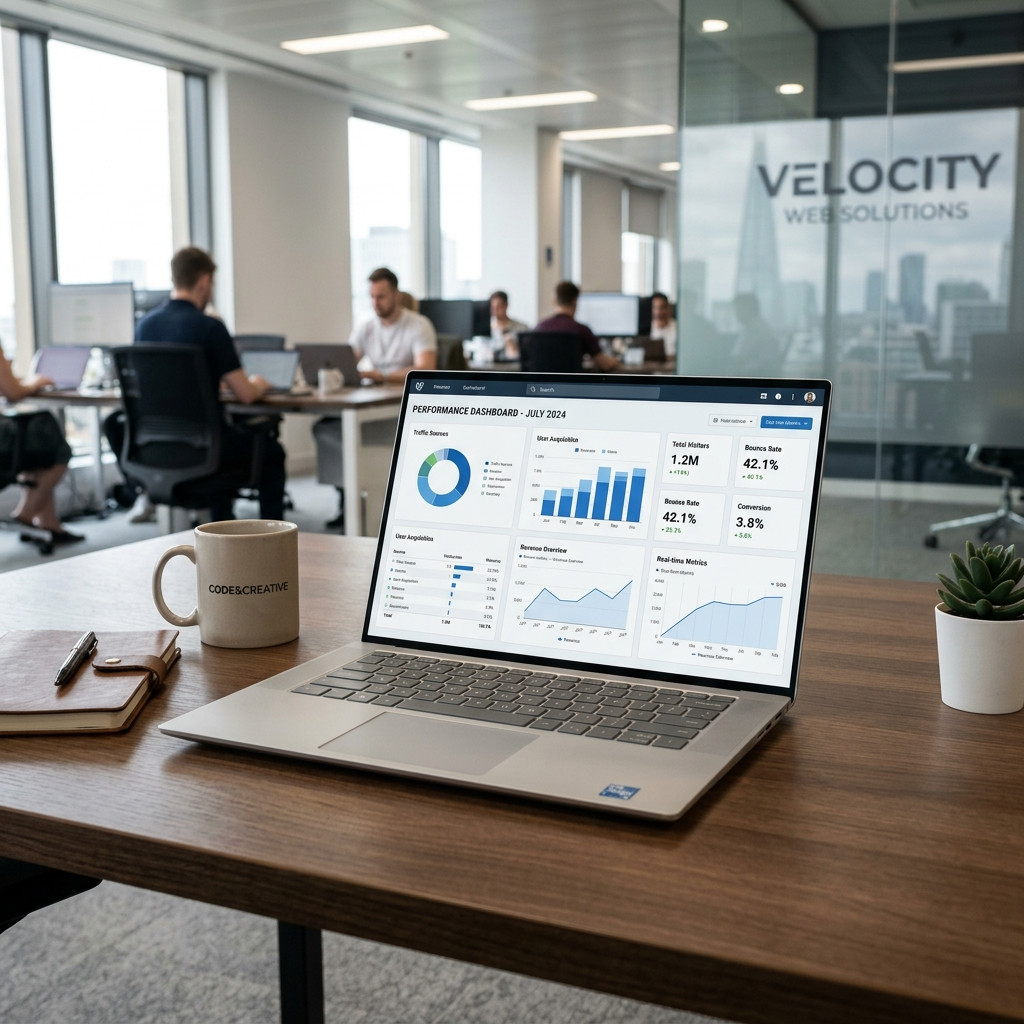
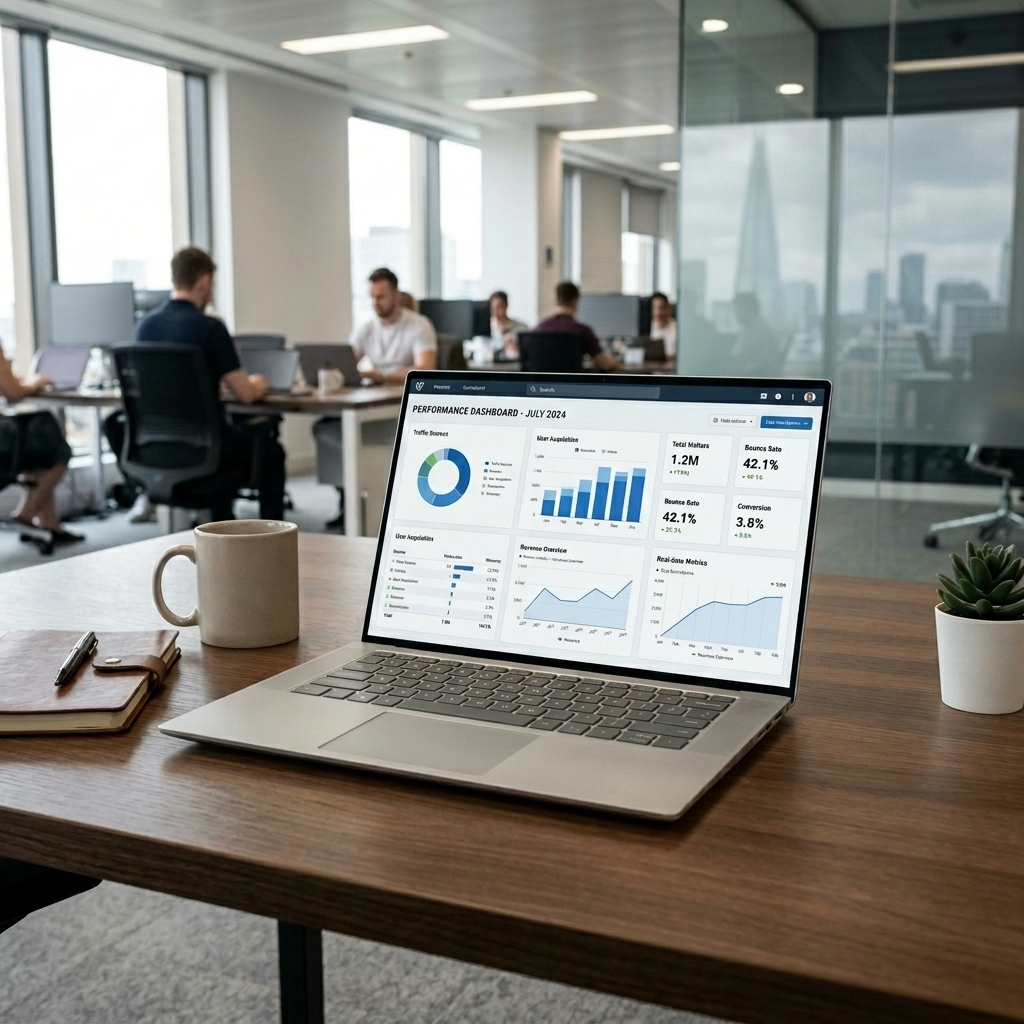
Make header solid black and remove text from dashboard image

diff --git a/style.css b/style.css
@@ -124,9 +124,7 @@ p {
     display: flex;
     justify-content: space-between;
     align-items: center;
-    background: rgba(0, 0, 0, 0.7);
-    backdrop-filter: blur(12px);
-    -webkit-backdrop-filter: blur(12px);
+    background: #000000;
     z-index: 1000;
     border-bottom: 1px solid var(--border-color);
 }
